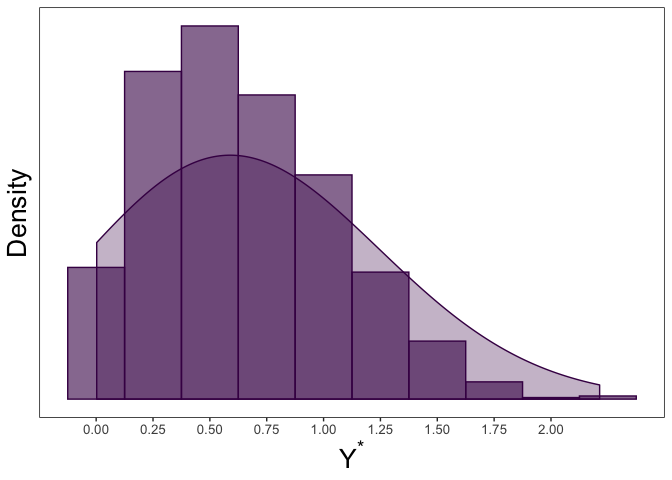
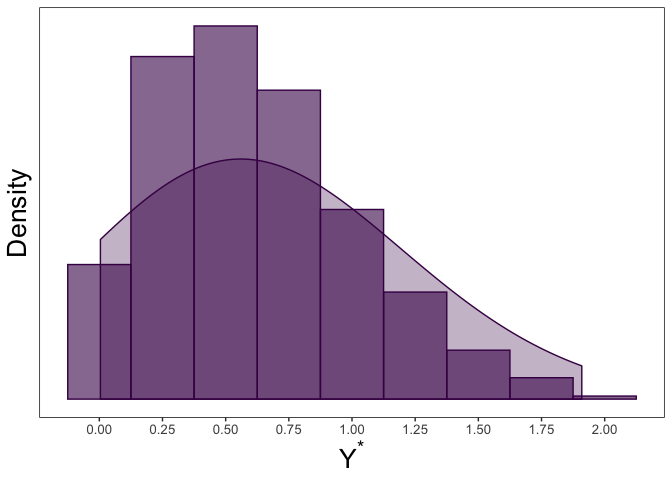
fix spelling errors

diff --git a/README.md b/README.md
@@ -5,7 +5,7 @@ Censored Data
 The goal of this package is to estimate parameters from a linear model
 when the data comes from a truncated normal distribution with censoring.
 Maximum likelihood values are returned. There are multiple method
-availabe for optimzation with the default set as conjugate gradient.
+available for optimization with the default set as conjugate gradient.
 This package is also able to return maximum likelihood estimates for
 truncated only or censored only data similar to `truncreg` and `censReg`
 packages.
@@ -47,7 +47,7 @@ y_star <- rtnorm(n=1000, mu=mu, sd=sigma, a=a)
 round(range(y_star), 3)
 ```
 
-    ## [1] 0.002 2.214
+    ## [1] 0.004 1.909
 
 Next, we can imagine a scenario where we have an imprecise measurement
 of `y_star` leading to censoring. In our case we assume that values
@@ -63,7 +63,7 @@ y <- ifelse(y_star <= nu, nu, y_star)
 sum(y == nu)/length(y) 
 ```
 
-    ## [1] 0.173
+    ## [1] 0.192
 
 ``` r
 #collecting the uncensored and censored data together
@@ -88,22 +88,22 @@ tcensReg(y ~ 1, data=dt, a=0, v=0.25)
 
     ## $theta
     ##               Estimate
-    ## (Intercept)  0.4964916
-    ## log_sigma   -0.6830799
+    ## (Intercept)  0.4453330
+    ## log_sigma   -0.6649437
     ## 
     ## $convergence
     ## [1] 0
     ## 
     ## $initial_ll
-    ## [1] -669.9357
+    ## [1] -677.0992
     ## 
     ## $final_ll
-    ## [1] -654.4766
+    ## [1] -658.9545
     ## 
     ## $var_cov
-    ##               (Intercept)     log_sigma
-    ## (Intercept)  0.0008843538 -0.0008722571
-    ## log_sigma   -0.0008722571  0.0016060984
+    ##              (Intercept)    log_sigma
+    ## (Intercept)  0.001125124 -0.001098775
+    ## log_sigma   -0.001098775  0.001791129
     ## 
     ## $method
     ## [1] "CG"
@@ -152,9 +152,9 @@ knitr::kable(results_df, format="markdown", digits=4)
 |            |     mu |  sigma | mu\_bias | sigma\_bias |
 | :--------- | -----: | -----: | -------: | ----------: |
 | Truth      | 0.5000 | 0.5000 |   0.0000 |      0.0000 |
-| tcensReg   | 0.4965 | 0.5051 |   0.0035 |      0.0051 |
-| Normal MLE | 0.6653 | 0.3738 |   0.1653 |      0.1262 |
-| Tobit      | 0.6235 | 0.4357 |   0.1235 |      0.0643 |
+| tcensReg   | 0.4453 | 0.5143 |   0.0547 |      0.0143 |
+| Normal MLE | 0.6430 | 0.3676 |   0.1430 |      0.1324 |
+| Tobit      | 0.5953 | 0.4362 |   0.0953 |      0.0638 |
 
 Other methods result in significant bias for both `mu` and `sigma`.
 
@@ -186,11 +186,11 @@ df <- data.frame(y_star = c(y_1_star, y_2_star),
 ```
 
 Plotting each of these uncensored population densities, we can see the
-difference in shape based on the underlyig parameter selection.
+difference in shape based on the underlying parameter selection.
 
 ![](README_files/figure-gfm/two_pop_graph-1.png)<!-- -->
 
-Then censoring each obseration at `nu`, we are left with `Y1` and `Y2`.
+Then censoring each observation at `nu`, we are left with `Y1` and `Y2`.
 Again, we let `nu`=0.25.
 
 ``` r
@@ -208,28 +208,28 @@ mod_result
 
     ## $theta
     ##       (Intercept) groupPopulation 2        log_sigma1        log_sigma2 
-    ##         0.4966625         0.4661086        -1.3700070         0.7154675 
+    ##         0.4919716         0.4744532        -1.3833296         0.6707672 
     ## 
     ## $convergence
     ## [1] 2
     ## 
     ## $initial_ll
-    ## [1] -1955.546
+    ## [1] -1922.05
     ## 
     ## $final_ll
-    ## [1] -1873.37
+    ## [1] -1839.155
     ## 
     ## $var_cov
     ##                     (Intercept) groupPopulation 2    log_sigma1
-    ## (Intercept)        8.191819e-05     -8.191819e-05 -7.883904e-05
-    ## groupPopulation 2 -8.191819e-05      3.608303e-02  7.883904e-05
-    ## log_sigma1        -7.883904e-05      7.883904e-05  8.241289e-04
-    ## log_sigma2         0.000000e+00     -8.277060e-03  4.288907e-21
+    ## (Intercept)        7.977785e-05     -7.977785e-05 -7.820255e-05
+    ## groupPopulation 2 -7.977785e-05      3.151697e-02  7.820255e-05
+    ## log_sigma1        -7.820255e-05      7.820255e-05  8.280428e-04
+    ## log_sigma2         3.982058e-21     -7.605071e-03 -5.745701e-21
     ##                      log_sigma2
-    ## (Intercept)        0.000000e+00
-    ## groupPopulation 2 -8.277060e-03
-    ## log_sigma1         4.288907e-21
-    ## log_sigma2         2.513672e-03
+    ## (Intercept)        3.982058e-21
+    ## groupPopulation 2 -7.605071e-03
+    ## log_sigma1        -5.745701e-21
+    ## log_sigma2         2.456670e-03
     ## 
     ## $method
     ## [1] "maxLik"
@@ -250,10 +250,10 @@ results_df$sigma2_bias <- abs(results_df$sigma_2 - sigma_2)
 knitr::kable(results_df, format="markdown", digits=4)
 ```
 
-|          |  mu\_1 |  mu\_2 | sigma\_1 | sigma\_2 | mu1\_bias | mu2\_bias | sigma1\_bias | sigma2\_bias |
-| :------- | -----: | -----: | -------: | -------: | --------: | --------: | -----------: | -----------: |
-| Truth    | 0.5000 | 1.0000 |   0.2500 |   2.0000 |    0.0000 |    0.0000 |       0.0000 |       0.0000 |
-| tcensReg | 0.4967 | 0.4661 |   0.2541 |   2.0451 |    0.0033 |    0.5339 |       0.0041 |       0.0451 |
+|          | mu\_1 |  mu\_2 | sigma\_1 | sigma\_2 | mu1\_bias | mu2\_bias | sigma1\_bias | sigma2\_bias |
+| :------- | ----: | -----: | -------: | -------: | --------: | --------: | -----------: | -----------: |
+| Truth    | 0.500 | 1.0000 |   0.2500 |   2.0000 |     0.000 |    0.0000 |        0e+00 |       0.0000 |
+| tcensReg | 0.492 | 0.4745 |   0.2507 |   1.9557 |     0.008 |    0.5255 |        7e-04 |       0.0443 |
 
 # Performance Comparison: Censored-Only and Truncated-Only
 
@@ -274,10 +274,10 @@ cens <- microbenchmark(tcensReg_method = tcensReg(y ~ 1, data=dt, v=nu, method="
 knitr::kable(summary(cens), format="markdown", digits=4)
 ```
 
-| expr             |     min |      lq |    mean |  median |     uq |      max | neval | cld |
-| :--------------- | ------: | ------: | ------: | ------: | -----: | -------: | ----: | :-- |
-| tcensReg\_method |  4.7294 |  4.9758 |  5.7903 |  5.1032 |  5.509 |  15.5222 |   100 | a   |
-| censReg\_method  | 13.6482 | 14.1309 | 19.0989 | 15.2589 | 20.631 | 107.4613 |   100 | b   |
+| expr             |     min |      lq |    mean |  median |      uq |     max | neval | cld |
+| :--------------- | ------: | ------: | ------: | ------: | ------: | ------: | ----: | :-- |
+| tcensReg\_method |  5.0243 |  5.5410 |  7.2963 |  6.7921 |  8.0183 | 19.4969 |   100 | a   |
+| censReg\_method  | 14.1266 | 17.2215 | 23.4230 | 20.8970 | 27.2244 | 97.5309 |   100 | b   |
 
 ``` r
 #point estimates are equivalent
@@ -299,8 +299,8 @@ knitr::kable(summary(trunc), format="markdown", digits=4)
 
 | expr             |     min |      lq |    mean |  median |      uq |     max | neval | cld |
 | :--------------- | ------: | ------: | ------: | ------: | ------: | ------: | ----: | :-- |
-| tcensReg\_method |  8.4045 |  8.6829 |  9.8435 |  9.0147 | 10.1608 | 19.1125 |   100 | a   |
-| truncreg\_method | 25.5526 | 26.7096 | 30.0315 | 29.9613 | 31.9347 | 40.9202 |   100 | b   |
+| tcensReg\_method |  9.6770 | 10.0098 | 11.7135 | 10.5325 | 12.8117 | 18.7950 |   100 | a   |
+| truncreg\_method | 32.1553 | 37.3949 | 40.9047 | 39.4133 | 43.7539 | 57.4039 |   100 | b   |
 
 ``` r
 tcensReg_est <- as.numeric(tcensReg(y_star ~ 1, data=dt, a=a, method="Newton")$theta)
@@ -310,7 +310,7 @@ truncreg_est <- as.numeric(coef(truncreg(y_star ~ 1, point=a, data=dt)))
 all.equal(tcensReg_est, truncreg_est)
 ```
 
-    ## [1] "Mean relative difference: 4.67443e-08"
+    ## [1] "Mean relative difference: 2.597539e-08"
 
 In the comparisons above we are using an intercept only model, but in
 general we expect that interest lies in understanding how a set of
@@ -343,8 +343,8 @@ knitr::kable(summary(cens), format="markdown", digits=4)
 
 | expr             |      min |       lq |     mean |   median |       uq |      max | neval | cld |
 | :--------------- | -------: | -------: | -------: | -------: | -------: | -------: | ----: | :-- |
-| tcensReg\_method | 279.4933 | 287.3882 | 305.9282 | 291.4500 | 299.1932 | 442.5581 |   100 | a   |
-| censReg\_method  | 312.8409 | 321.3178 | 348.6221 | 328.3797 | 336.5681 | 595.9023 |   100 | b   |
+| tcensReg\_method | 256.1805 | 271.2622 | 307.0725 | 288.6914 | 313.5030 | 511.4174 |   100 | a   |
+| censReg\_method  | 326.4971 | 356.0700 | 395.2004 | 377.0440 | 406.7581 | 607.6829 |   100 | b   |
 
 ``` r
 #point estimates are equivalent
@@ -353,7 +353,7 @@ censReg_est <- as.numeric(coef(censReg(y ~ ., left=nu, data=dt)))
 all.equal(tcensReg_est, censReg_est)
 ```
 
-    ## [1] "Mean relative difference: 0.0002490504"
+    ## [1] "Mean relative difference: 0.0001063324"
 
 ``` r
 #testing the truncated-only regression with 100 covariates
@@ -362,10 +362,10 @@ trunc <- microbenchmark(tcensReg_method = tcensReg(y_star ~ ., data=dt, a=a, met
 knitr::kable(summary(trunc), format="markdown", digits=4)
 ```
 
-| expr             |     min |       lq |     mean |   median |       uq |      max | neval | cld |
-| :--------------- | ------: | -------: | -------: | -------: | -------: | -------: | ----: | :-- |
-| tcensReg\_method | 250.223 | 264.6725 | 303.0881 | 285.9302 | 321.6655 | 516.0683 |   100 | a   |
-| truncreg\_method | 395.139 | 422.2279 | 472.3667 | 454.6757 | 489.8309 | 831.8177 |   100 | b   |
+| expr             |      min |       lq |     mean |   median |       uq |      max | neval | cld |
+| :--------------- | -------: | -------: | -------: | -------: | -------: | -------: | ----: | :-- |
+| tcensReg\_method | 198.4580 | 213.5616 | 230.9906 | 223.1846 | 238.9011 | 410.1783 |   100 | a   |
+| truncreg\_method | 341.4797 | 366.3732 | 404.4446 | 382.2021 | 409.4345 | 607.6284 |   100 | b   |
 
 ``` r
 tcensReg_est <- as.numeric(tcensReg(y_star ~ ., data=dt, a=a, method="BFGS")$theta)
@@ -375,4 +375,4 @@ truncreg_est <- as.numeric(coef(truncreg(y_star ~ ., point=a, data=dt)))
 all.equal(tcensReg_est, truncreg_est)
 ```
 
-    ## [1] "Mean relative difference: 2.418364e-05"
+    ## [1] "Mean relative difference: 5.81283e-05"
